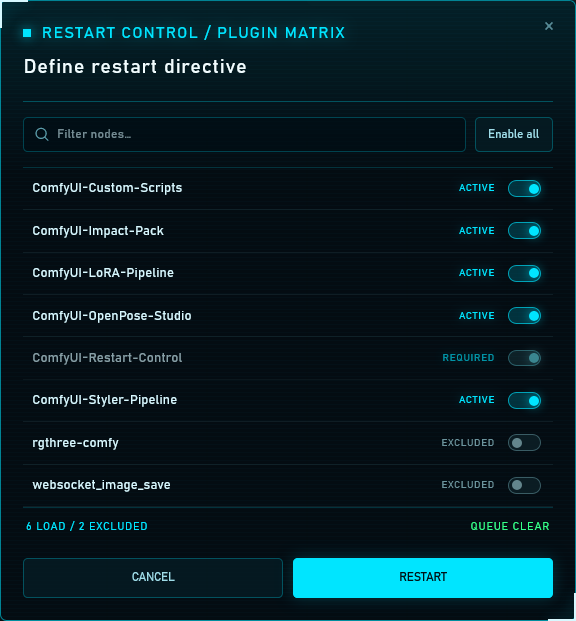
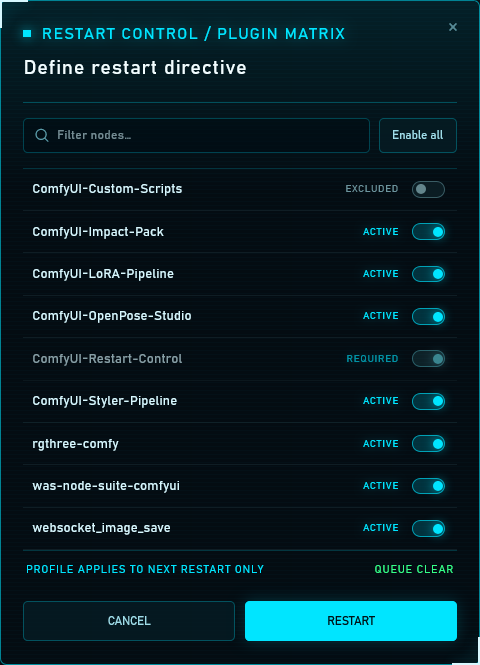
Update Restart Control to 0.1.1

diff --git a/js/safe_restart.css b/js/safe_restart.css
@@ -282,7 +282,7 @@ body.disable-animations .andreszs-safe-restart-telemetry > span {
 .andreszs-safe-restart-selector-card {
     box-sizing: border-box;
     position: relative;
-    width: min(36rem, 94vw);
+    width: min(30rem, 92vw);
     max-height: min(48rem, 92vh);
     padding: 1.4rem;
     border: 1px solid rgb(0 229 255 / 55%);

diff --git a/CHANGELOG.md b/CHANGELOG.md
@@ -2,6 +2,13 @@
 
 All notable changes to this project will be documented here.
 
+## [0.1.1] - 2026-07-22
+
+### Changed
+
+- Matched the plugin matrix width to the Boot Trace display.
+- Updated the plugin matrix screenshot and animated Registry banner.
+
 ## [0.1.0] - 2026-07-22
 
 ### Added

diff --git a/README.md b/README.md
@@ -17,7 +17,7 @@ Choose the custom nodes that will load on the next restart.
 Restart Control locks the workspace and reports the backend handoff until the new instance is available.
 
 <p align="center">
-  <img src="assets/boot-trace.png" alt="Restart Control Boot Trace" width="480" />
+  <img src="assets/banner_011.gif" alt="Animated Restart Control Boot Trace" width="480" />
 </p>
 
 ## Installation